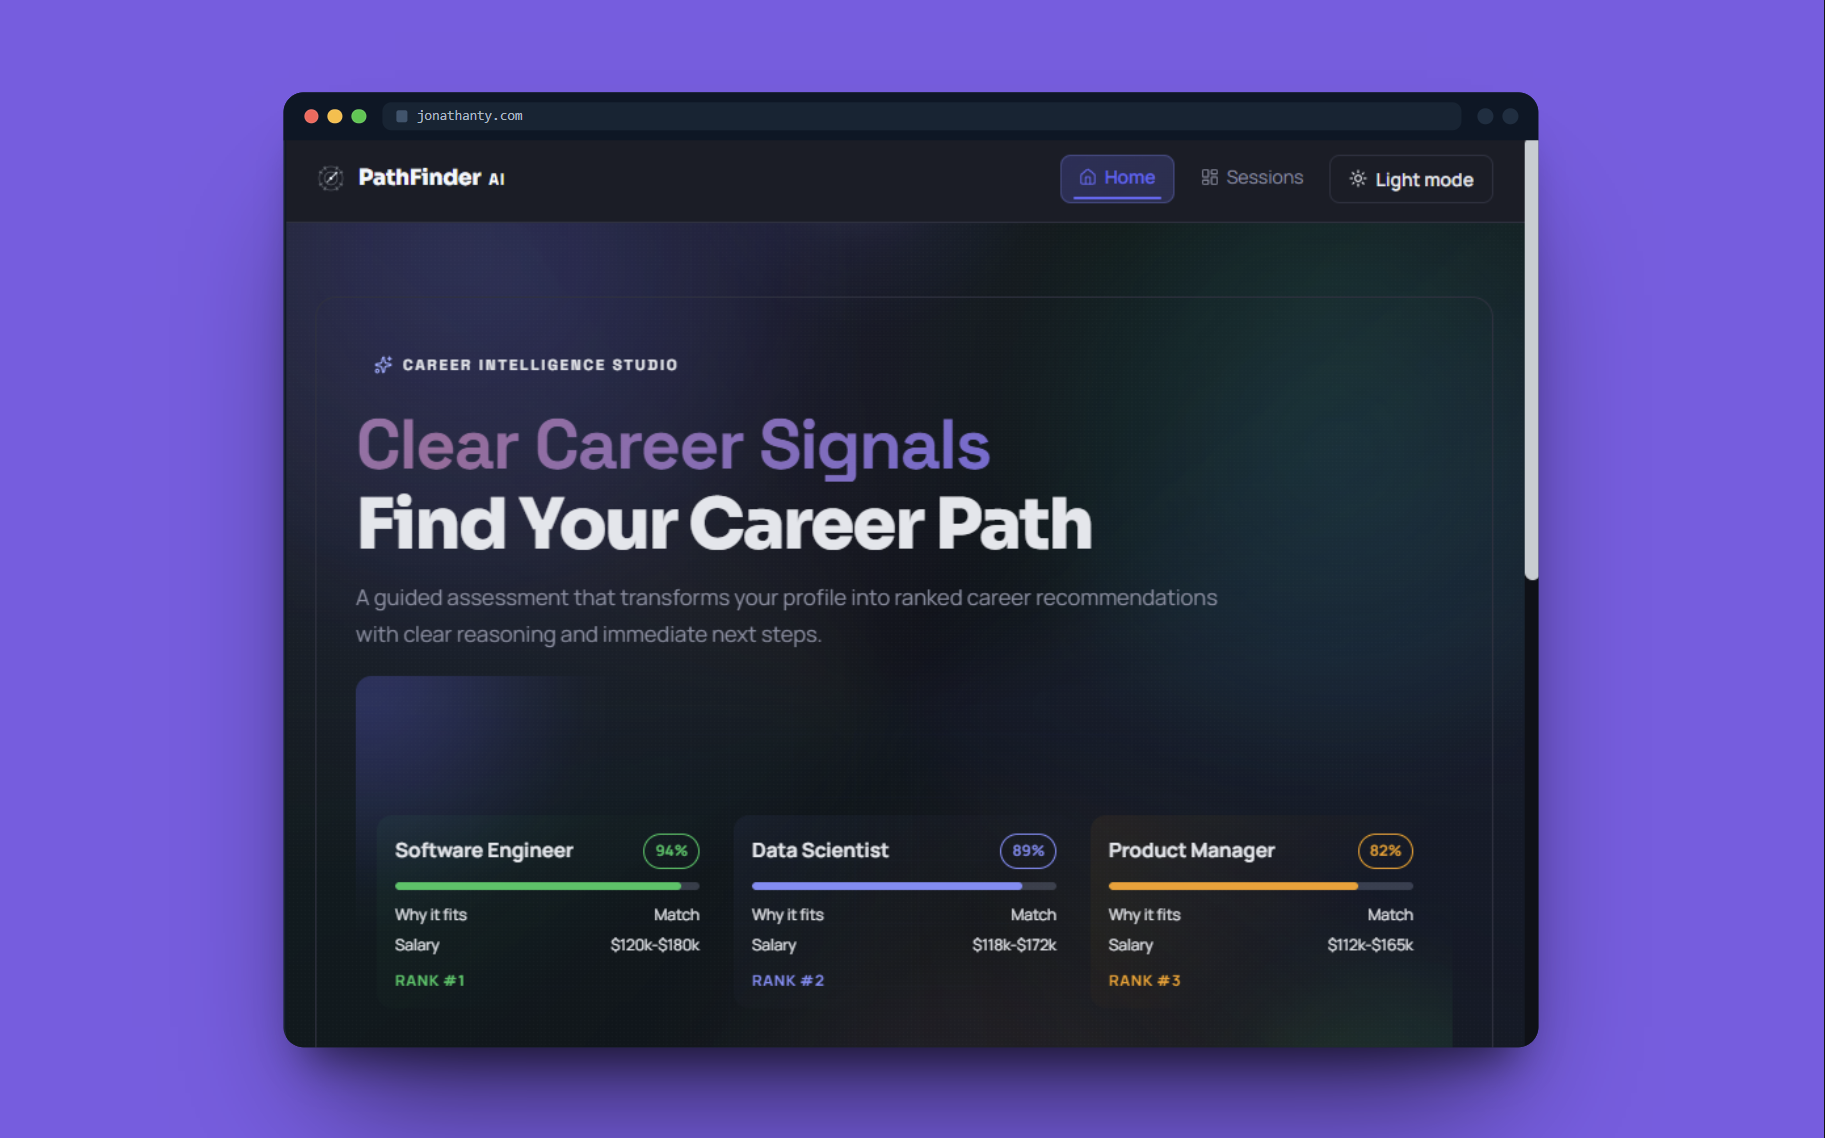
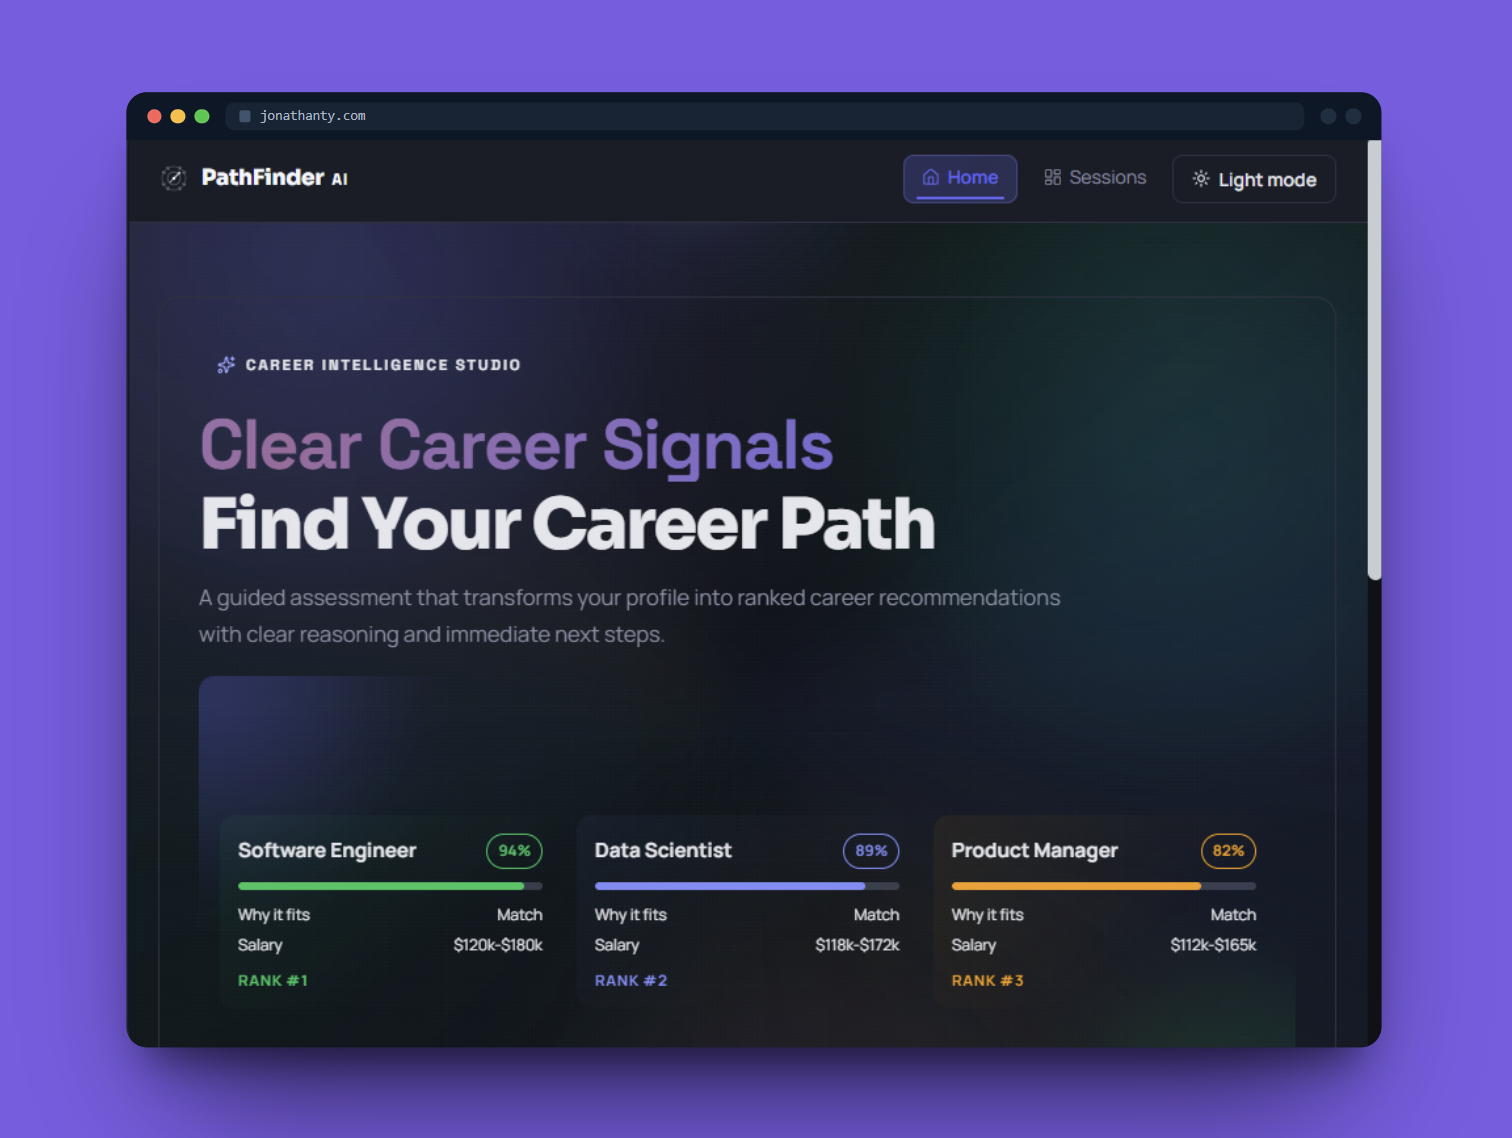
Changing pannuto thumbnail image

Changed region(s): [[0.0622, 0.0615, 0.6839, 1.0], [0.5284, 0.0615, 0.9325, 1.0], [0.9947, 0.0, 1.0, 1.0]]

diff --git a/content/projects.ts b/content/projects.ts
@@ -291,8 +291,8 @@ export const projects: Project[] = [
       "We designed a pipeline that aligned audio cues with time-series sensor data from 9-axis IMU devices, allowing activities to be labeled in real time without post-processing. I focused on building data preprocessing scripts and structuring the dataset for LSTM-based models, which ultimately achieved higher validation accuracy compared to button-based and standard baseline methods.",
       "Looking back, I think we could’ve explored more robust generalization across different environments and users. Still, this project shifted how I think about data collection, not just optimizing models, but questioning the assumptions behind how data is gathered in the first place.",
     ],
-    thumbnail: "/images/pannuto-group-poster.jpg",
-    heroImage: "/images/pannuto-group-poster.jpg",
+    thumbnail: "/images/pannuto-thumbnail.png",
+    heroImage: "/images/pannuto-thumbnail.png",
     links: [
       {
         label: "Pannuto Group Poster",
